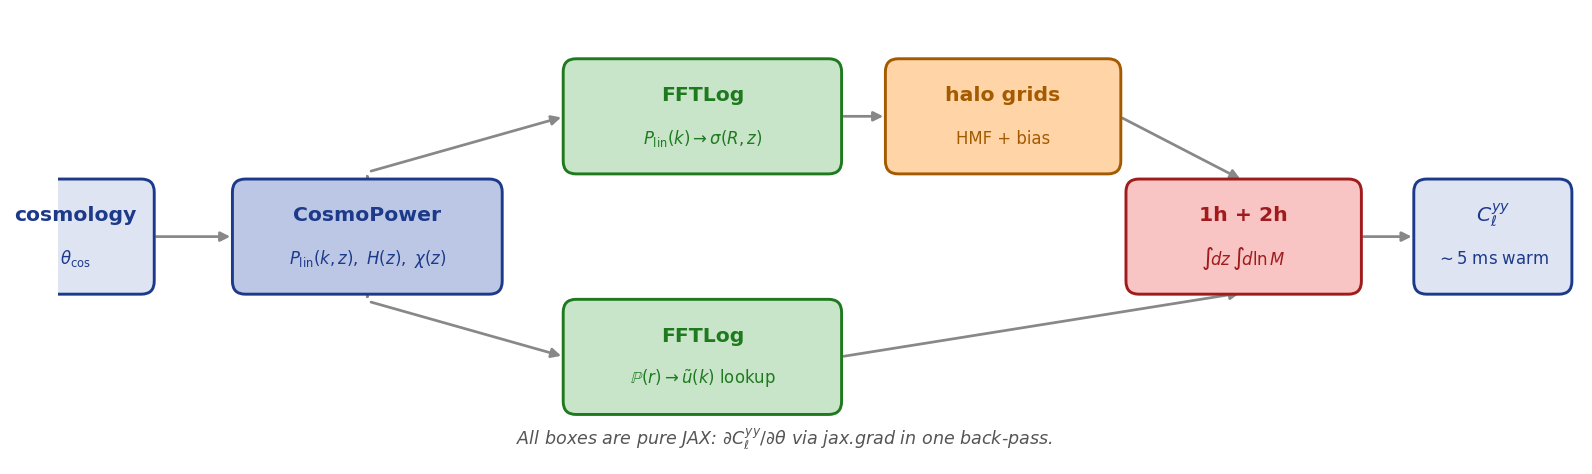
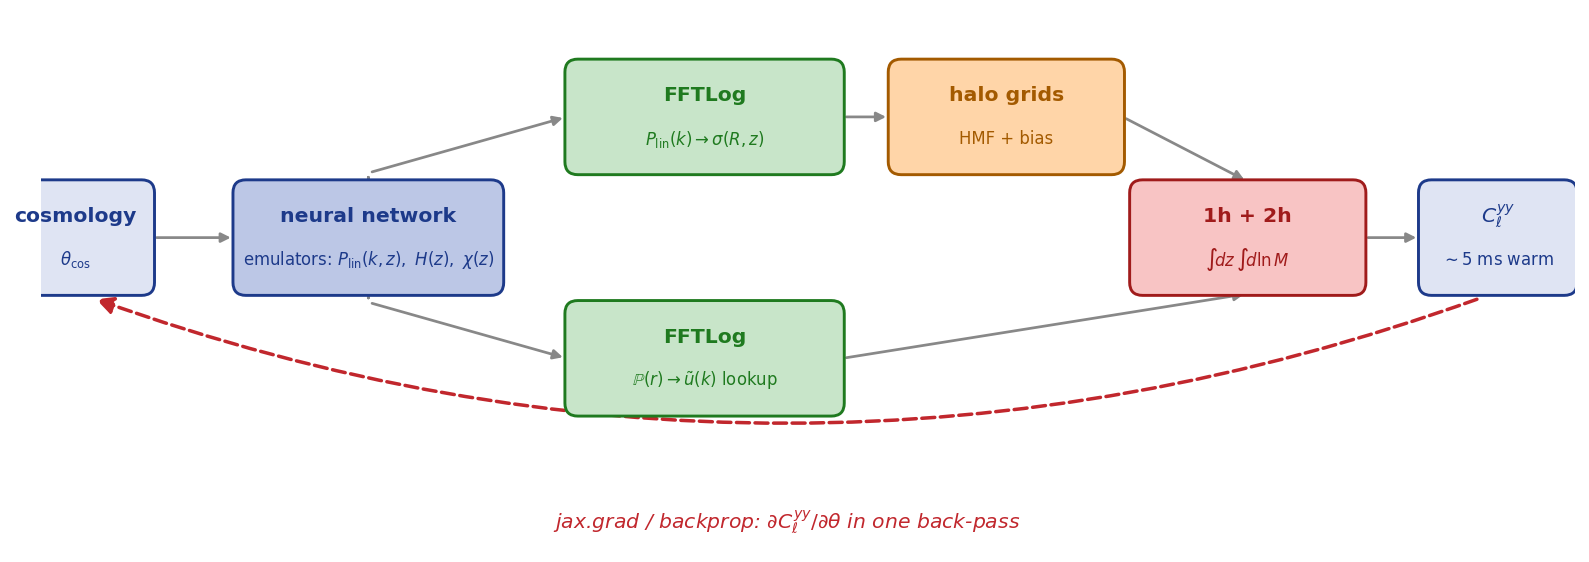
README pipeline figure: rename CosmoPower → neural network emulators                       + add curved jax.grad/backprop arrow
Matches the paper Fig 2 update — the schematic is now
emulator-implementation-agnostic (no CosmoPower label in the box
itself; the actual emulator implementation is documented in the paper
§3.1 and the API reference).

Added a shallow dashed arc from C_ℓ^yy back to cosmology with label
"jax.grad / backprop: ∂C_ℓ^yy/∂θ in one back-pass" — the autodiff
direction was previously only stated as a footer, the curved arrow
makes it visual.

Changed region(s): [[0.0, 0.0886, 1.0, 0.9451], [0.0925, 0.4135, 0.1542, 0.443]]

diff --git a/tests/_plot_pipeline.py b/tests/_plot_pipeline.py
@@ -10,9 +10,9 @@ from matplotlib.patches import FancyBboxPatch, FancyArrowPatch
 
 
 def main():
-    fig, ax = plt.subplots(figsize=(11.5, 4.6))
-    ax.set_xlim(-0.2, 17.5)
-    ax.set_ylim(-2.6, 2.6)
+    fig, ax = plt.subplots(figsize=(11.5, 5.2))
+    ax.set_xlim(-0.4, 17.4)
+    ax.set_ylim(-3.6, 2.6)
     ax.set_aspect("equal")
     ax.axis("off")
 
@@ -57,7 +57,7 @@ def main():
     P_OUT  = (16.5,  0.0)
 
     box(*P_IN,   "inp",  "cosmology",       r"$\theta_\mathrm{cos}$")
-    box(*P_EMU,  "emu",  "CosmoPower",      r"$P_\mathrm{lin}(k,z),\ H(z),\ \chi(z)$")
+    box(*P_EMU,  "emu",  "neural network",  r"emulators: $P_\mathrm{lin}(k,z),\ H(z),\ \chi(z)$")
     box(*P_SIG,  "fft",  "FFTLog",          r"$P_\mathrm{lin}(k)\to\sigma(R,z)$")
     box(*P_PROF, "fft",  "FFTLog",          r"$\mathbb{P}(r)\to\tilde u(k)$ lookup")
     box(*P_HALO, "halo", "halo grids",      "HMF + bias")
@@ -75,9 +75,18 @@ def main():
     arrow((P_PROF[0] + styles["fft"]["w"] / 2, P_PROF[1]), (P_INT[0], P_INT[1] - styles["intg"]["h"] / 2))
     arrow((P_INT[0] + styles["intg"]["w"] / 2, P_INT[1]), (P_OUT[0] - styles["inp"]["w"] / 2, P_OUT[1]))
 
-    ax.text(8.25, -2.35,
-            r"All boxes are pure JAX: $\partial C_\ell^{yy}/\partial\theta$ via jax.grad in one back-pass.",
-            ha="center", va="center", fontsize=9, style="italic", color="#555")
+    # Backward gradient arrow — output → input via a shallow curved arc
+    # below the boxes. Label placed below the arc.
+    grad = FancyArrowPatch(
+        (P_OUT[0] - 0.2, -0.7), (P_IN[0] + 0.2, -0.7),
+        connectionstyle="arc3,rad=-0.18",
+        arrowstyle="-|>", mutation_scale=18,
+        color="#c1272d", linewidth=1.8, linestyle="--", zorder=1,
+    )
+    ax.add_patch(grad)
+    ax.text(8.25, -3.30,
+            r"jax.grad / backprop: $\partial C_\ell^{yy}/\partial\theta$ in one back-pass",
+            ha="center", va="center", fontsize=10.5, style="italic", color="#c1272d")
 
     plt.tight_layout()
     out = os.path.expanduser("~/classy_szlite/docs/_static/pipeline.png")
